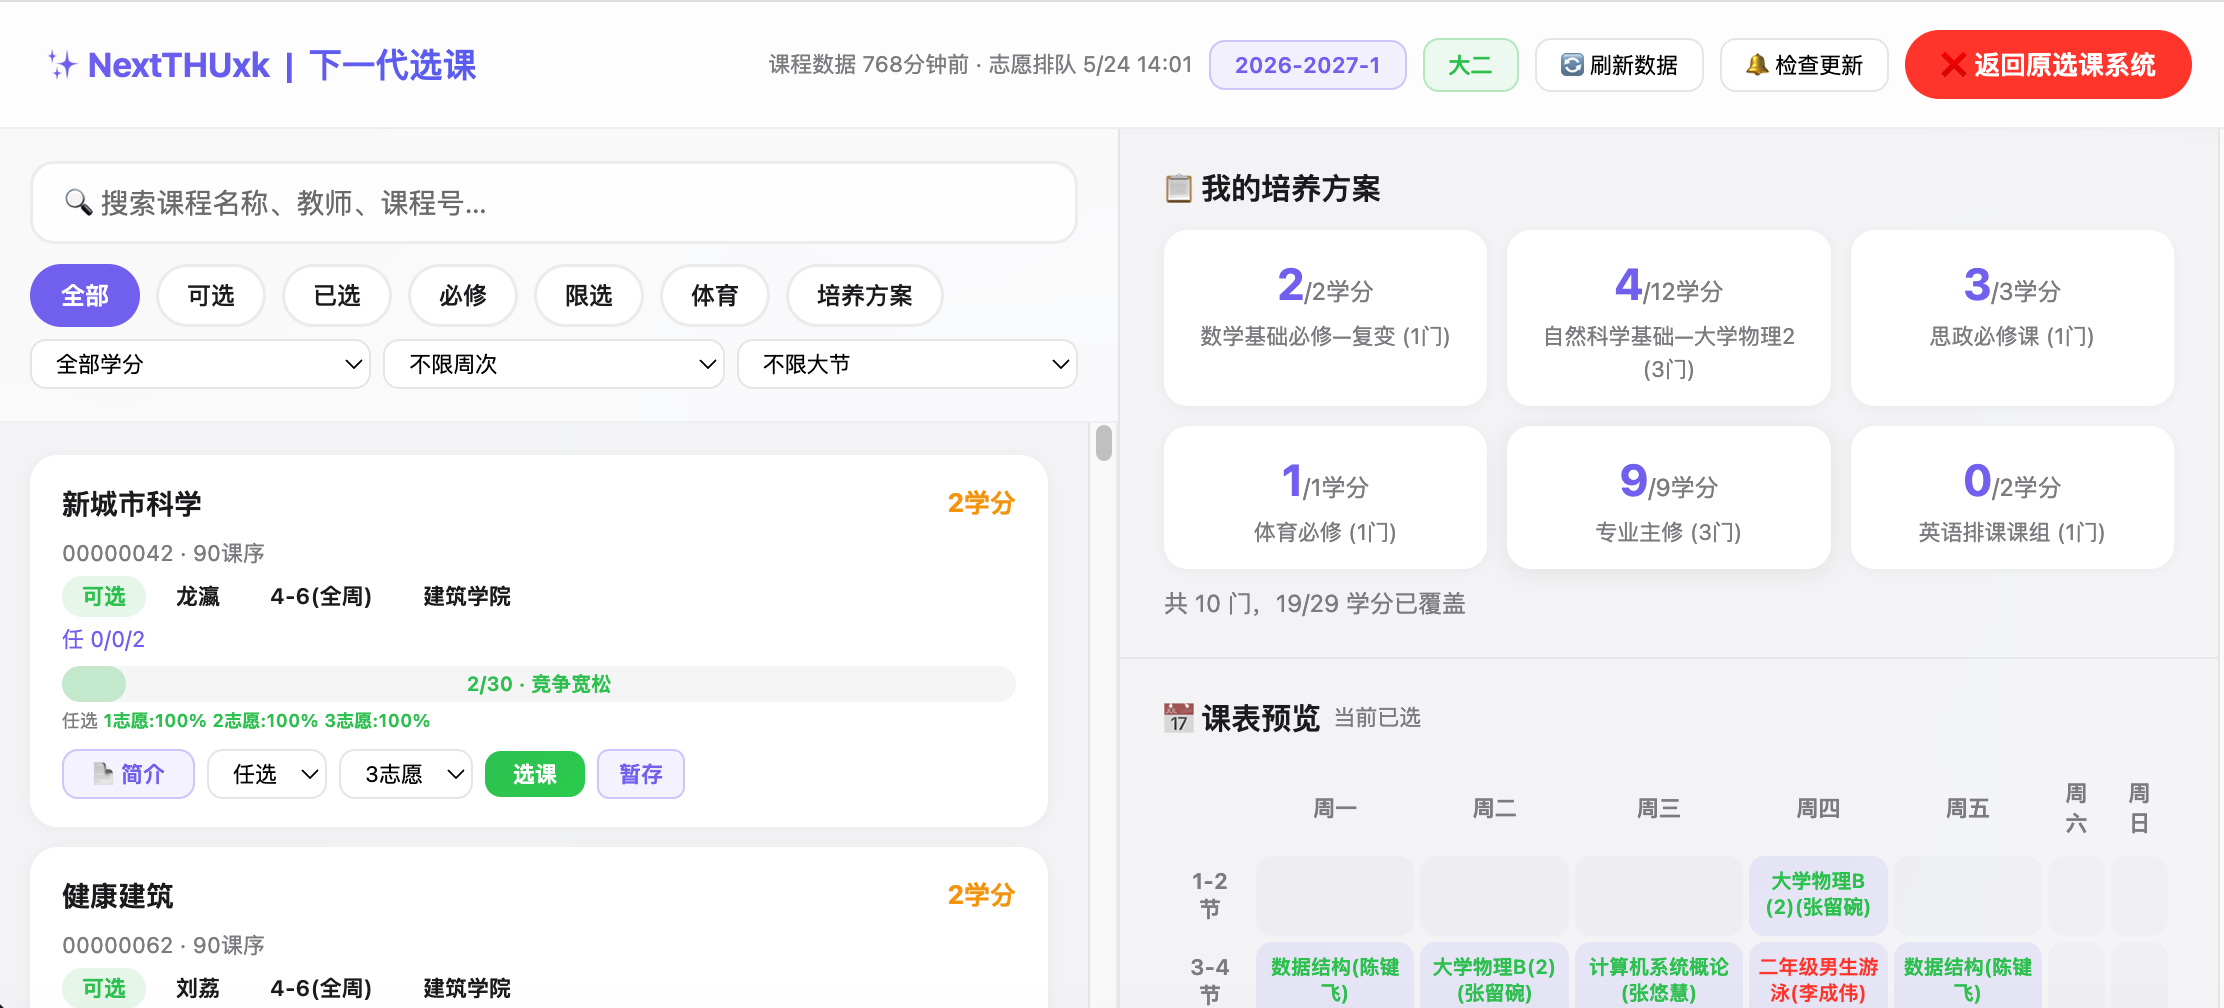
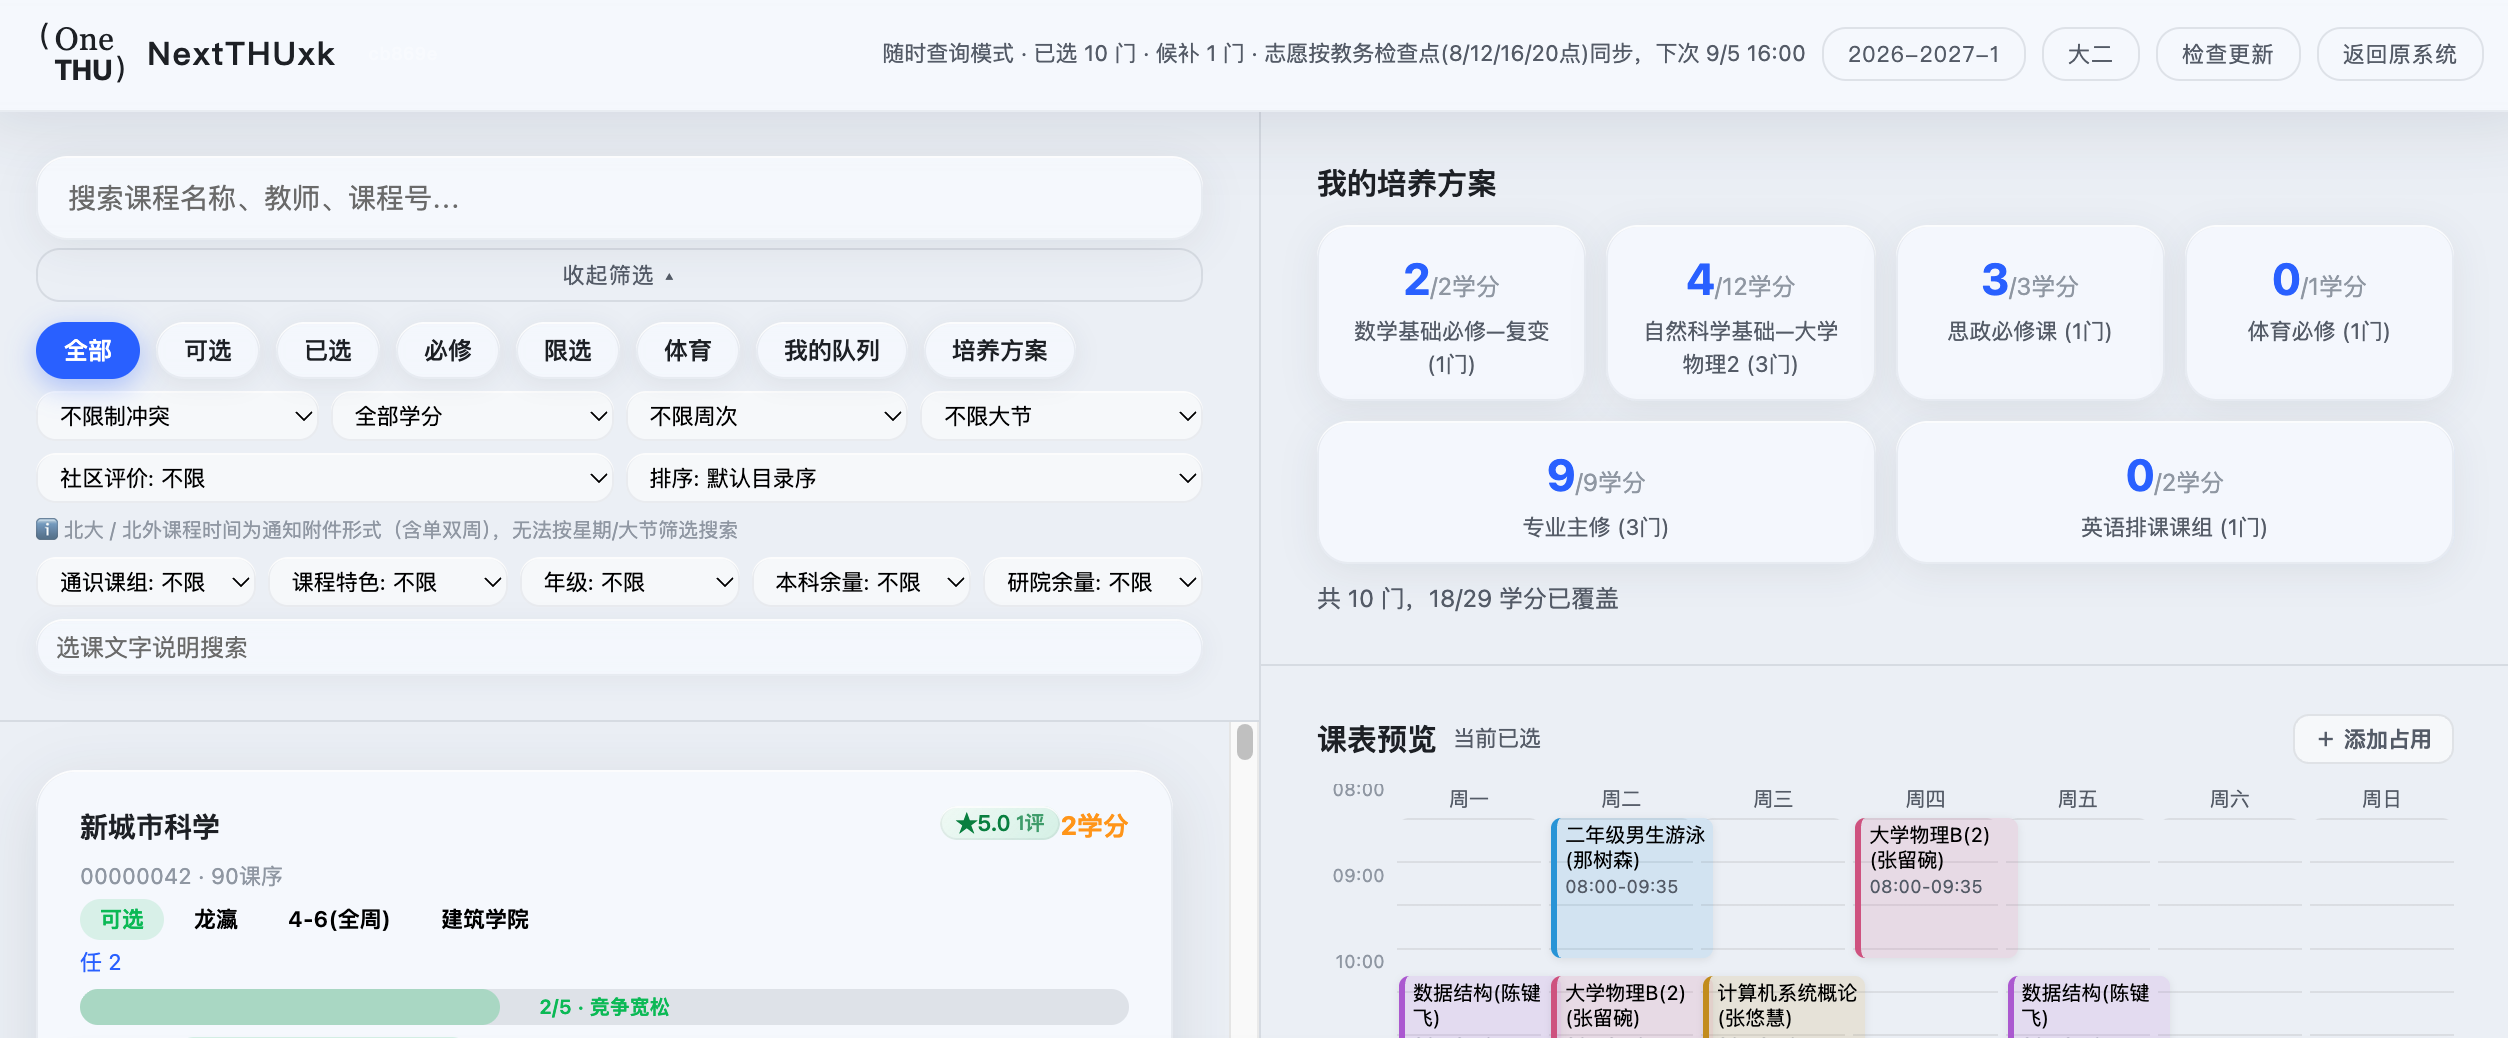
xk-2.0 版本 2.0.0：README v2.0 定稿（随时查询/外校课/AI/可靠性 + 历史节）+ OneTHU logobar 居中标题植入 + RELEASES.md 发布说明草稿

diff --git a/src/config.js b/src/config.js
@@ -10,8 +10,8 @@ NX.browser = typeof browser !== 'undefined' ? browser : chrome;
 NX.TAG = '[NextTHUxk]';
 NX.SP = 'nextthuxk_';
 NX.DATA_VER = 6;
-NX.CUR_VER = '1.5.1';
-NX.BUILD = 'cb869e';   // 构建标记：面板+启动日志可见，防「页面刷新了但扩展没刷新」的旧构建疑案
+NX.CUR_VER = '2.0.0';
+NX.BUILD = 'd5d024';   // 构建标记：面板+启动日志可见，防「页面刷新了但扩展没刷新」的旧构建疑案
 NX.DANGEROUS_VERS = ['1.0.1','1.0.2','1.0.3','1.1.2','1.2.0'];
 NX.ZY_LIMITS = {
   bx: [[1,1],[2,2],[3,Infinity]], // 必修：1志愿1门, 2志愿2门, 3志愿无限

diff --git a/README.md b/README.md
@@ -1,4 +1,12 @@
-# NextTHUxk — 下一代选课
+<div align="center">
+
+<img src="docs/logo-banner.png" alt="(One THU) — One THUer should have OneTHU." width="600"/>
+
+# OneTHU NextTHUxk — 下一代选课
+
+`One App · One Identity · One Campus` · 选课工作台
+
+</div>
 
 > 清华本科生选课增强工具。在原选课页面叠加全屏工作台，提供课程搜索、课表预览、暂存管理、AI 排课等功能。
 
@@ -25,7 +33,7 @@
 
 ## 使用
 
-进入清华选课网站（zhjwxk.cic.tsinghua.edu.cn 或 zhjw.cic.tsinghua.edu.cn），右下角会出现 **NextTHUxk 胶囊按钮**：
+进入清华选课网站（zhjwxk.cic.tsinghua.edu.cn 或 zhjw.cic.tsinghua.edu.cn），右下角会出现 **OneTHU 品牌的启动按钮**（(One THU) 字标 + NextTHUxk）：
 
 - 点击按钮 → 进入全屏工作台（首次使用会引导确认学期与年级）
 - 工作台内右上角「返回原系统」→ 收起工作台回到教务原页面
@@ -36,10 +44,12 @@
 
 ### 课程浏览与搜索
 
-- 全校课程目录搜索（按课名、课号、教师模糊匹配）
+- **随时查询架构（2.0 重构）**：不再整库预爬，搜索直达教务服务端按页取数，工作台秒开；关键词+筛选条件组合查询，分页条实时显示满足全部条件的页数与条数
+- 全校课程目录搜索（按课名、课号、教师模糊匹配），**外校课全支持**：北大（PK/GPK）、北外（BW）等前缀课号可直接搜索、跳转定位，外校课真实上课时间自动解析进课表与冲突检测
+- **可折叠筛选栏**：高级筛选收进按钮，课程展示区更大，展开状态自动记忆
 - **搜索联想词**：边输边出候选，含 THU选课社区评分
 - 按类型快速筛选：**必修 / 限选 / 体育 / 已选 / 我的队列 / 可选**
-- 高级筛选：按**学分数**、**周几**、**第几大节**精确过滤
+- 高级筛选：按**学分数**、**周几**、**第几大节**、通识课组、课程特色、本/研余量精确过滤
 - **时间冲突筛选**：按与当前预览课表是否冲突过滤
 - 每门课显示余量、竞争热度、各志愿排队人数
 
@@ -59,7 +69,7 @@
 - 课程卡片显示余量/排队/排入希望值，替代预选阶段的概率显示
 - 课表预览中候补课程显示排队状态，已选课程显示「已选」
 - 草稿/暂存在课余量模式下也显示余量队列信息
-- 独立的「刷新队列」按钮，一键更新课余量和排队数据
+- **志愿数据按教务检查点自动同步**（8:00 / 12:00 / 16:00 / 20:00），缓存信息条显示下次同步时间，无需手动刷新
 
 ### 时间冲突检测
 
@@ -99,7 +109,8 @@
 - 「**提交选课**」：自动退选所有已选课，再按草稿内容一次性选入
 - 提交后草稿保留，不会自动删除
 - **导出 / 导入**：复制 JSON 分享给同学，对方导入后可直接提交
-- 自动检测草稿内课程的时间冲突
+- 自动检测草稿内课程的时间冲突（含外校课钟点）
+- **外校课时间记忆**：解析过的外校课时间本地持久缓存，导入他人课表 / 换学期后暂存与课表预览照常显示
 
 ### 培养方案检测
 
@@ -113,7 +124,8 @@
 ### AI 排课
 
 - 填入兼容 OpenAI 格式的 API 地址、模型名称和 Key
-- AI 自动读取：当前必修 + 体育课程目录、已选课程、所有暂存草稿、个人偏好
+- **AI 课程搜索**：用自然语言描述需求，AI 在当前搜索结果中推荐并给出理由，一键暂存
+- **AI 排课**：自动读取当前候选课程（含志愿统计、余量、外校说明）、已选课程、占用时段、所有暂存草稿与个人偏好
 - **AI 搜索与 AI 排课均注入 THU选课社区评分/点评数据**，推荐理由参考真实口碑
 - 生成推荐方案并自动存入暂存草稿区
 - 对任选 / 通识课仅给出方向建议，不硬选具体课程
@@ -143,8 +155,8 @@
 - 个人数据（草稿、API 配置等）全部存储在浏览器本地
 - 扩展代码中不包含任何个人数据
 - 课程目录和志愿数据有缓存机制：
-  - 课程目录：首次加载后缓存，手动刷新时更新
-  - 志愿排队数据：每日 8:00 / 12:00 / 16:00 / 20:00 自动刷新
+  - 课程目录：**随时查询（2.0）**——按需向教务服务端取数，热门搜索结果会话内缓存
+  - 志愿排队数据：每日 **8:00 / 12:00 / 16:00 / 20:00** 教务检查点自动同步
   - 已选课程：每次打开工作台实时获取
 
 ## 数据来源与授权（THU选课社区）
@@ -155,6 +167,46 @@
   - ❌ 禁止：将点评数据用于任何商业目的（出售、广告变现、商业数据服务等）
 - 扩展仅在用户浏览课程或打开点评弹窗时**实时读取**社区的公开接口，并随内容展示来源署名；不在本地分发、转售点评数据库
 - 点评著作权归原作者所有；引用时请保留「THU选课社区」及作者信息，详见 CC BY-NC 4.0 条款
+
+## v2.0 随时查询（大版本重构）
+
+> 架构级重写，与 [OneTHU](https://github.com/smartThise/OneTHU) 桌面版同源同款语义；品牌全面切换 OneTHU。
+
+### 架构：随时查询
+
+- **废弃整库预爬**：旧版启动要全量抓 300+ 页课程目录（慢且给教务压力）；2.0 启动只拉核心四路（已选 / 课余量 / 候补 / 培养方案缓存），课程数据按需向教务服务端分页查询——工作台**秒开**
+- 服务端搜索完整移植 OneTHU 语义：课号/课名/教师/星期/大节/年级/通识课组/特色/本研余量组合筛选，中文参数 GBK 编码（UTF-8 直发会 0 行）
+- **风暴护栏**：精确课号只探 1 页；总页数 ≤25 全量、>25 只探 5 页；「加载全部」显式补齐；页间错峰——绝不给教务制造 25 连发
+- 本地叠加筛选（冲突 / 学分 / 文字说明 / chips）不再触发重查，分页条显示**满足全部条件的实际页数与条数**
+
+### 外校课全支持（北大 / 北外…）
+
+- 课号检索大小写修复（`BW3w0008` 此前被本地过滤误杀——根因实锤）+ 一级课表页签检索兜底（任选→限选→必修，教务 web UI 同款路径）
+- 外校课真实上课时间在教务「选课文字说明」列：**自动解析钟点**进课表预览与全部冲突检测；解析结果持久缓存（换学期 / 导入他人课表不丢）
+- 暂存 / 草稿 / 课表预览 / AI 全链路认外校课；多段课程志愿**绝不盲配**（按课序精确匹配）
+
+### AI 选课助手升级
+
+- **AI 课程搜索** + **AI 排课**双入口；候选集与界面所见同源
+- 注入数据升级：志愿统计（各志愿报名/容量）、余量、外校说明列、占用时段（含自定义占用与外校钟点）、THU选课社区评分与点评节选
+
+### 提交可靠性（选课 / 退选 / 志愿调整）
+
+- **业务拒绝字典**：时间冲突、学分上限、先修不符等教务拒绝此前被当成功（假成功实锤），现明确失败并带出可读文案
+- 未知响应不再假成功：轮询已选 / 候补列表确认后才下结论
+- 排队二段提交使用响应页新 token（一次性 token 链，v1.3.12 血泪延续）
+
+### 界面与品牌
+
+- 品牌切换 **OneTHU**：插件图标、启动按钮、工作台左上角、Popup 统一 (One THU) 字标
+- 可折叠筛选栏、动态分页条、构建徽章（面板可见，防旧构建疑案）、缓存信息条（含下次检查点时间）
+- 液态玻璃配方延续（更新横幅 / 启动按钮 / 详情弹窗）
+
+### 修复（用户报告驱动）
+
+- 暂存概率「一会有一会没有」五连修：池合并缓存失效、暂存行回查、多段课序精确匹配、启动钩子补渲染
+- 航空体育不再算体育（分类页 attr 误标先排除）
+- 退选 / 退候补 / 志愿调整提交字段与教务原生表单逐字段核对（v1.5.0 逐字节审计通过）
 
 ## v1.4.0 THU选课社区评价接入
 

diff --git a/RELEASES.md b/RELEASES.md
@@ -1,0 +1,49 @@
+# NextTHUxk 2.0「随时查询」— 发布说明草稿
+
+> ⚠ **草稿状态**：请亲自修改后再发布。以下为按 git 历史（1.5.0 → 2.0，约 73 个提交）整理的素材，措辞与取舍以你为准。
+
+---
+
+## OneTHU NextTHUxk 2.0.0
+
+**从 2026 年 3 月迭代到 2026 年 9 月，我们于今天隆重发布 OneTHU NextTHUxk 扩展 2.0.0 版本。**
+
+相较于 1.x 版本，2.0 版本进行了**革命性**的架构更新，并且修复了大量潜在的恶性 bug，也是 OneTHU 平台的统一调度架构首次实验。NextTHUxk 将作为 OneTHU 平台的首个官方插件推出。
+
+### 架构更新
+
+在 1.x 版本中，首次打开扩展需要调用教务系统 API 进行全校 6,000 余门课程的信息与志愿数据的全量爬去，丢包、缺漏现象极多并且耗时极长，后续的缓存命中时间也令人无法接受。
+
+在 2.0.0 版本中，**NextTHUxk 不再会对所有内容进行一次性全量爬取，而是采取更合理的随查随取。我们将根据用户的查询与选课情况随时调取教务系统 API，随时解析。实测工作台启动速时间从 50s+ 提升到 5s 以内，工作台就绪时间不超过 10s。**
+
+由于不需要命中缓存，**工作台的浏览器内存占用将缩小一半以上，占用扩展存储将下降到原来的 1/100 。**
+
+### 课程库解析更新
+
+得益于架构更新，我们不再一次性爬取全部教务系统信息页，因此不再受到课程遗漏丢包的困扰。配合新加入的三次重试机制，截至目前，**2026 秋季学期本科生可选的 6,176 门课程全部可以在 NextTHUxk 进行查询，包括北京大学、北京外国语大学开放的互选课程。**
+
+我们同时**完全重构了预览课表机制**。由于北京大学、北京外国语大学课程时间与清华大学课程时间无法完全匹配，我们直接将课表预览更新为**动态时间轴**，并且**完全支持外校互选课程的所有时间解析功能**。你可以在时间轴上自由添加占用、本校课程或外校互选课程，更清晰的预览内容。
+
+我们修复了书院专项体育、航空体育、体育理论等**非全校统一体育课程**的解析错误问题。
+
+### 交互更新
+
+根据社区开发者的 PR，现在你可以直接在预览课表/暂存区/培养方案处点击任意课程条，即可跳转至该课程以及同课号下所有的课程，方便您筛选。
+
+左边筛选栏现在可以收起，方便即使查看，减小视线遮挡。
+
+### AI 辅助选课更新
+
+我们依据全新架构更新了 AI 辅助选课接口。现在 AI 可以更准更快的提供参考了。**需要注意的是，由于选课决策本身是很复杂的规划问题，可能绝大多数大语言模型需要极长的时间推出建议。**
+
+### 品牌更新
+
+NextTHUxk 现在是 OneTHU 平台的官方插件部分，我们为其更换了 OneTHU 的品牌 Logo 与识别符号。未来会基于 OneTHU 平台推出更多更新，欢迎贡献，敬请期待。
+
+### 致谢
+- [THUxk](https://github.com/orgs/THUxk) 团队的长期社区贡献与建议
+- 清华大学 2026 级新生群的使用建议
+
+---
+
+> 再次提醒：本文件为**草稿**，发布前请全文过目修改。README.md 已同步 2.0 内容（含 v2.0 历史节），同样等你定稿。
